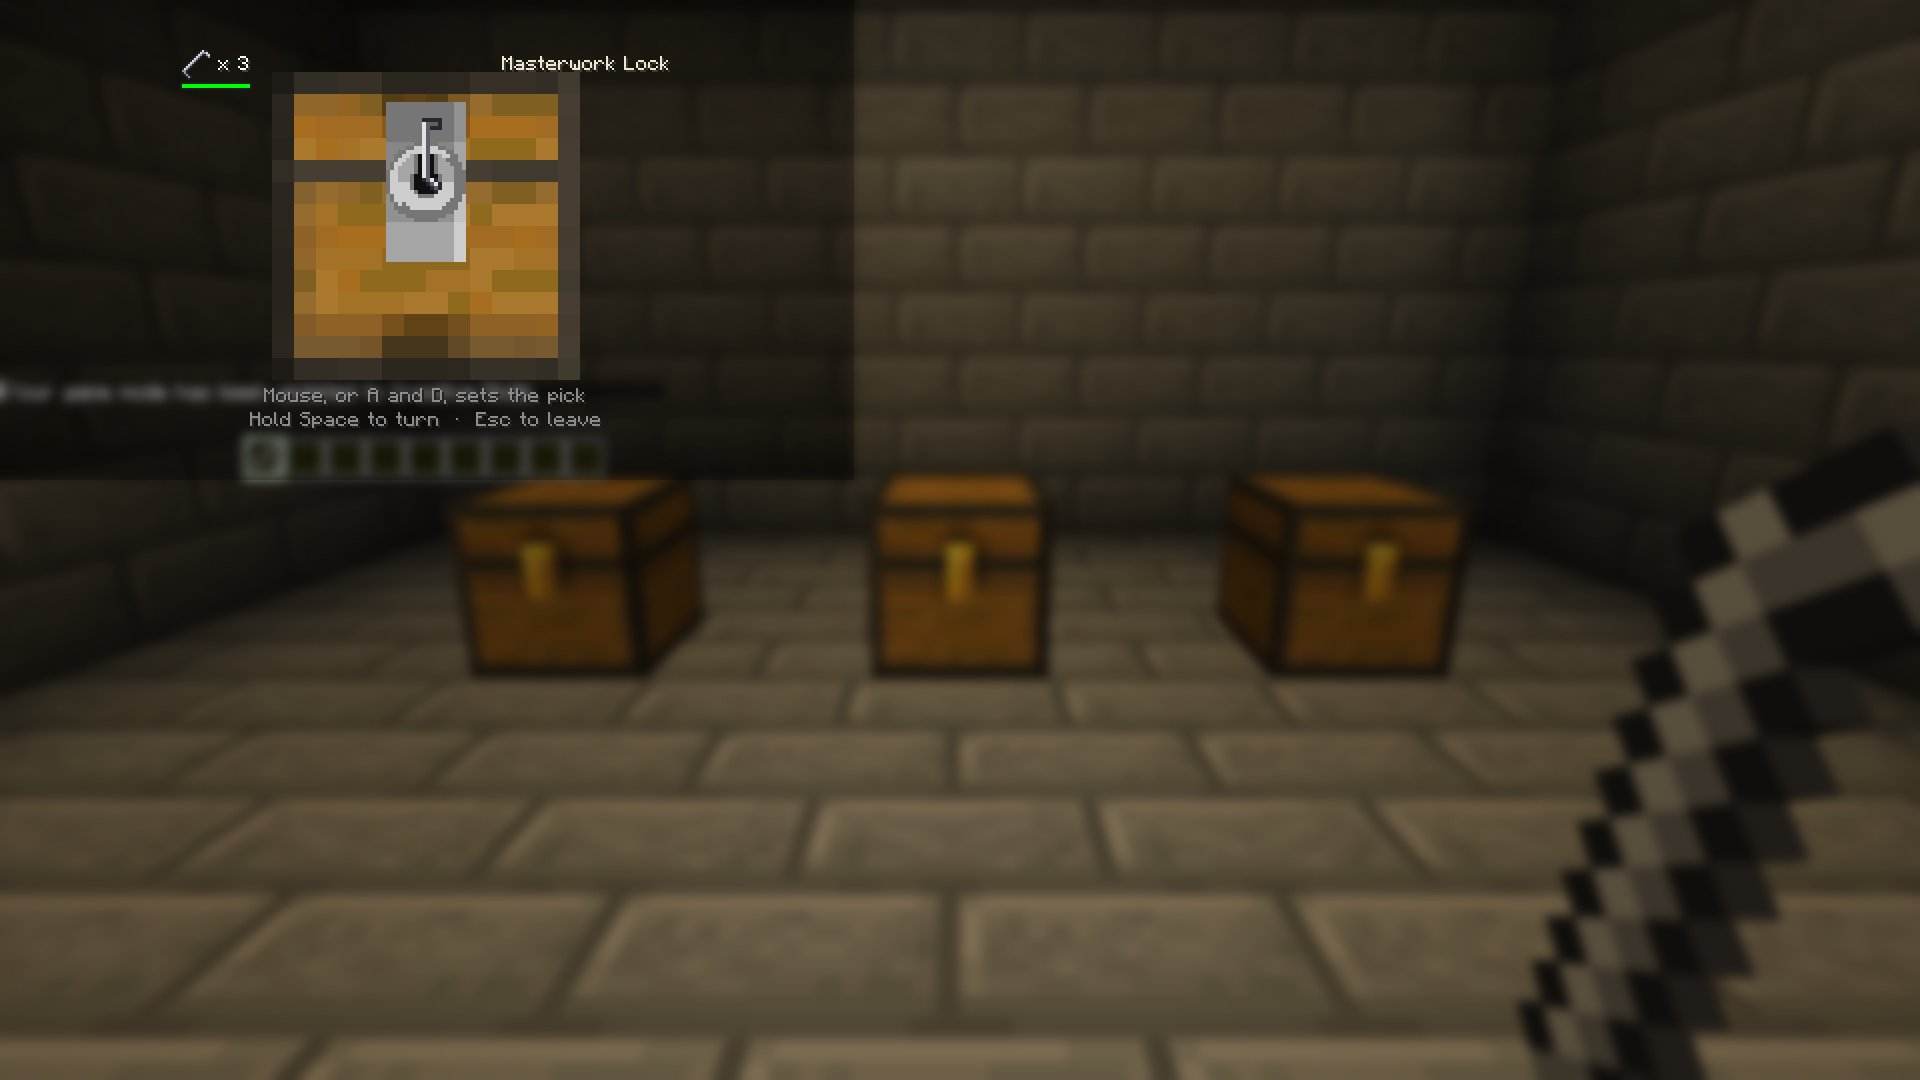
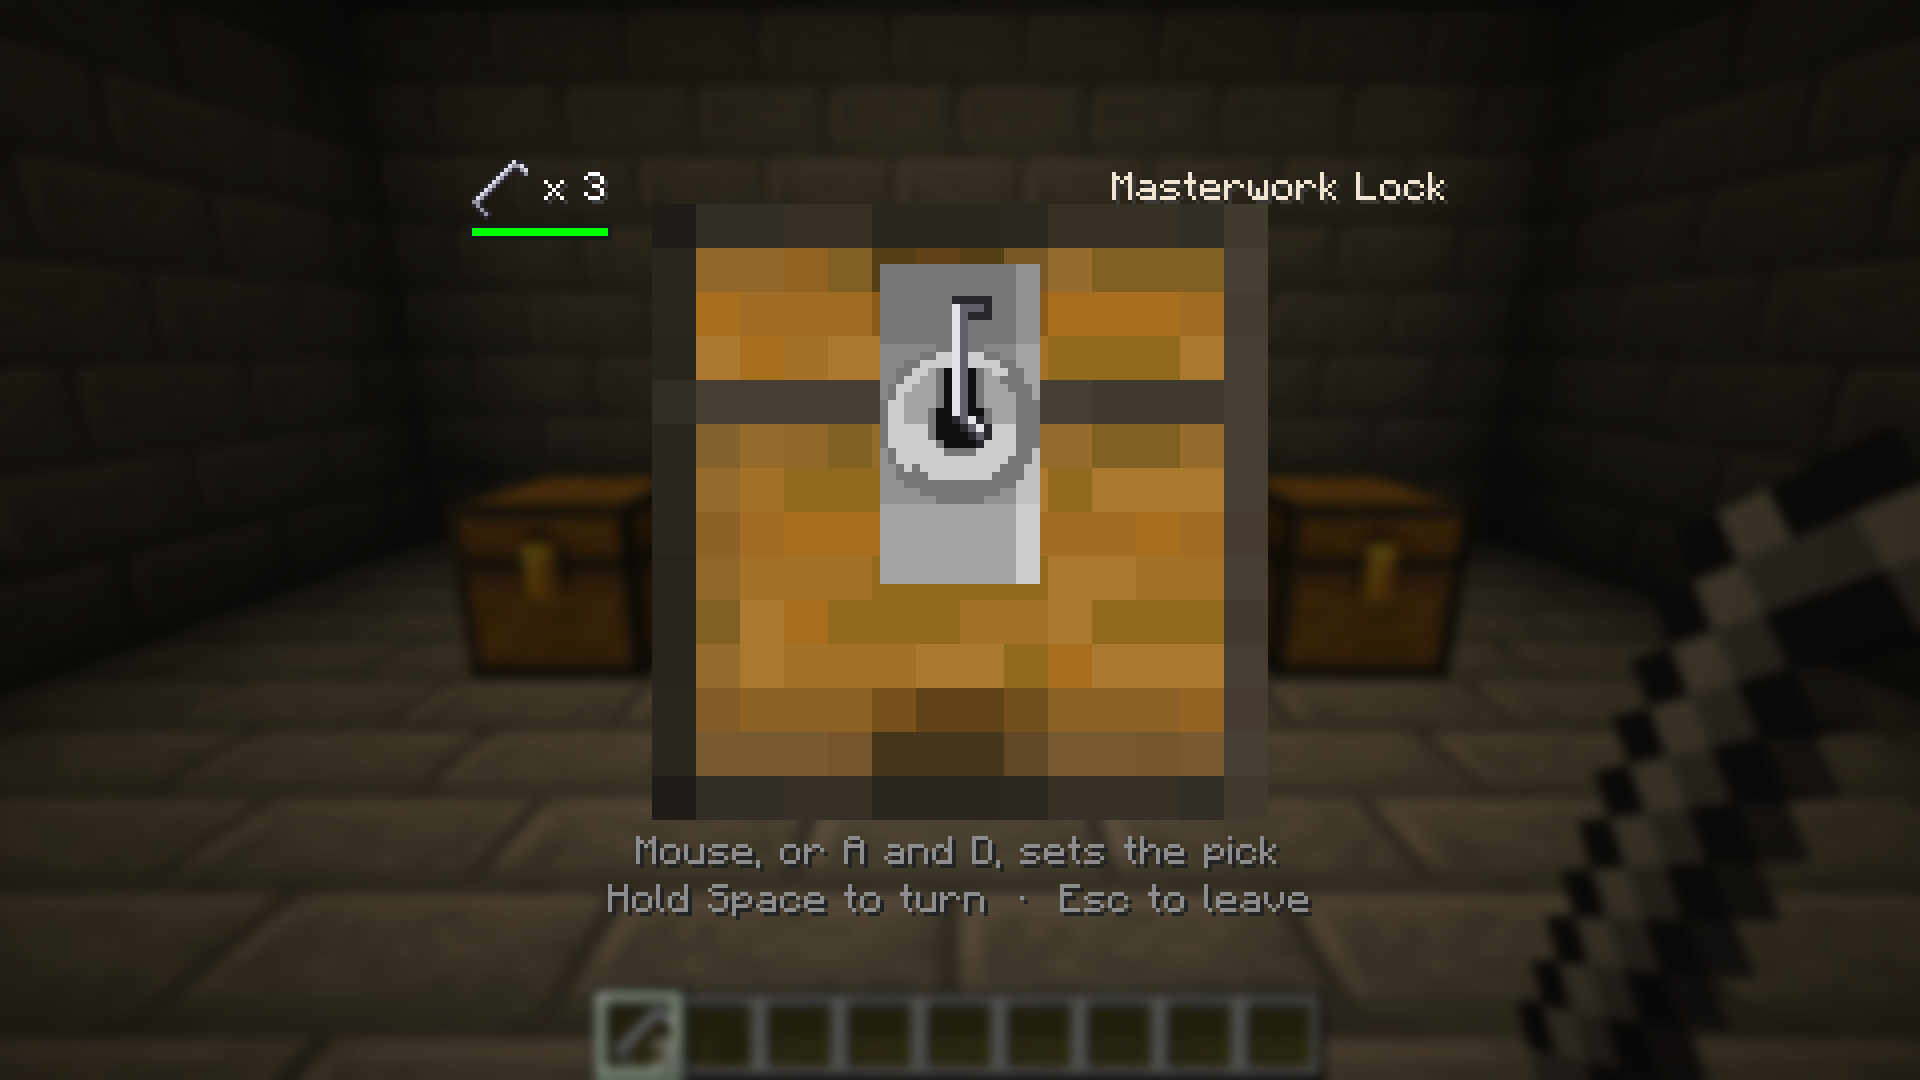
the lock, photographed at the size a player meets it
The window was 854x480 while the screenshot was 1920x1080, so the lock screen
was laid out for the small window and drawn in the corner. The run now sizes the
window to the picture, and the gamemode is set early enough that the chat line
about it has faded from where the lock prints its instructions.

Claude-Session: https://claude.ai/code/session_01G1ELJbLRRrwsN7nHVPocTb

diff --git a/src/gametest/java/justfatlard/loot_ender/gametest/Showcase.java b/src/gametest/java/justfatlard/loot_ender/gametest/Showcase.java
@@ -39,6 +39,8 @@ public final class Showcase implements FabricClientGameTest {
 			server.runCommand("gamerule doWeatherCycle false");
 			server.runCommand("time set noon");
 			server.runCommand("gamemode creative @a");
+			// Said early, so the line about it has faded out of the chat before the lock is shown:
+			// the chat sits exactly where the lock's own instructions are.
 			// A lock is only ever shown to somebody carrying something to pick it with.
 			server.runCommand("give @a loot-ender:lockpick 3");
 
@@ -72,6 +74,7 @@ public final class Showcase implements FabricClientGameTest {
 
 			// And the lock itself, through the call a chest makes when somebody reaches for it.
 			context.getInput().pressKey(options -> options.keyToggleGui);
+			context.waitTicks(220);
 			server.runOnServer(s -> Lockpicking.unlocked(s.overworld(), connection.getServerPlayer(),
 				chest, chest.asLong(), BuiltInLootTables.STRONGHOLD_LIBRARY, 0L, player -> { }));
 			context.waitTicks(40);
